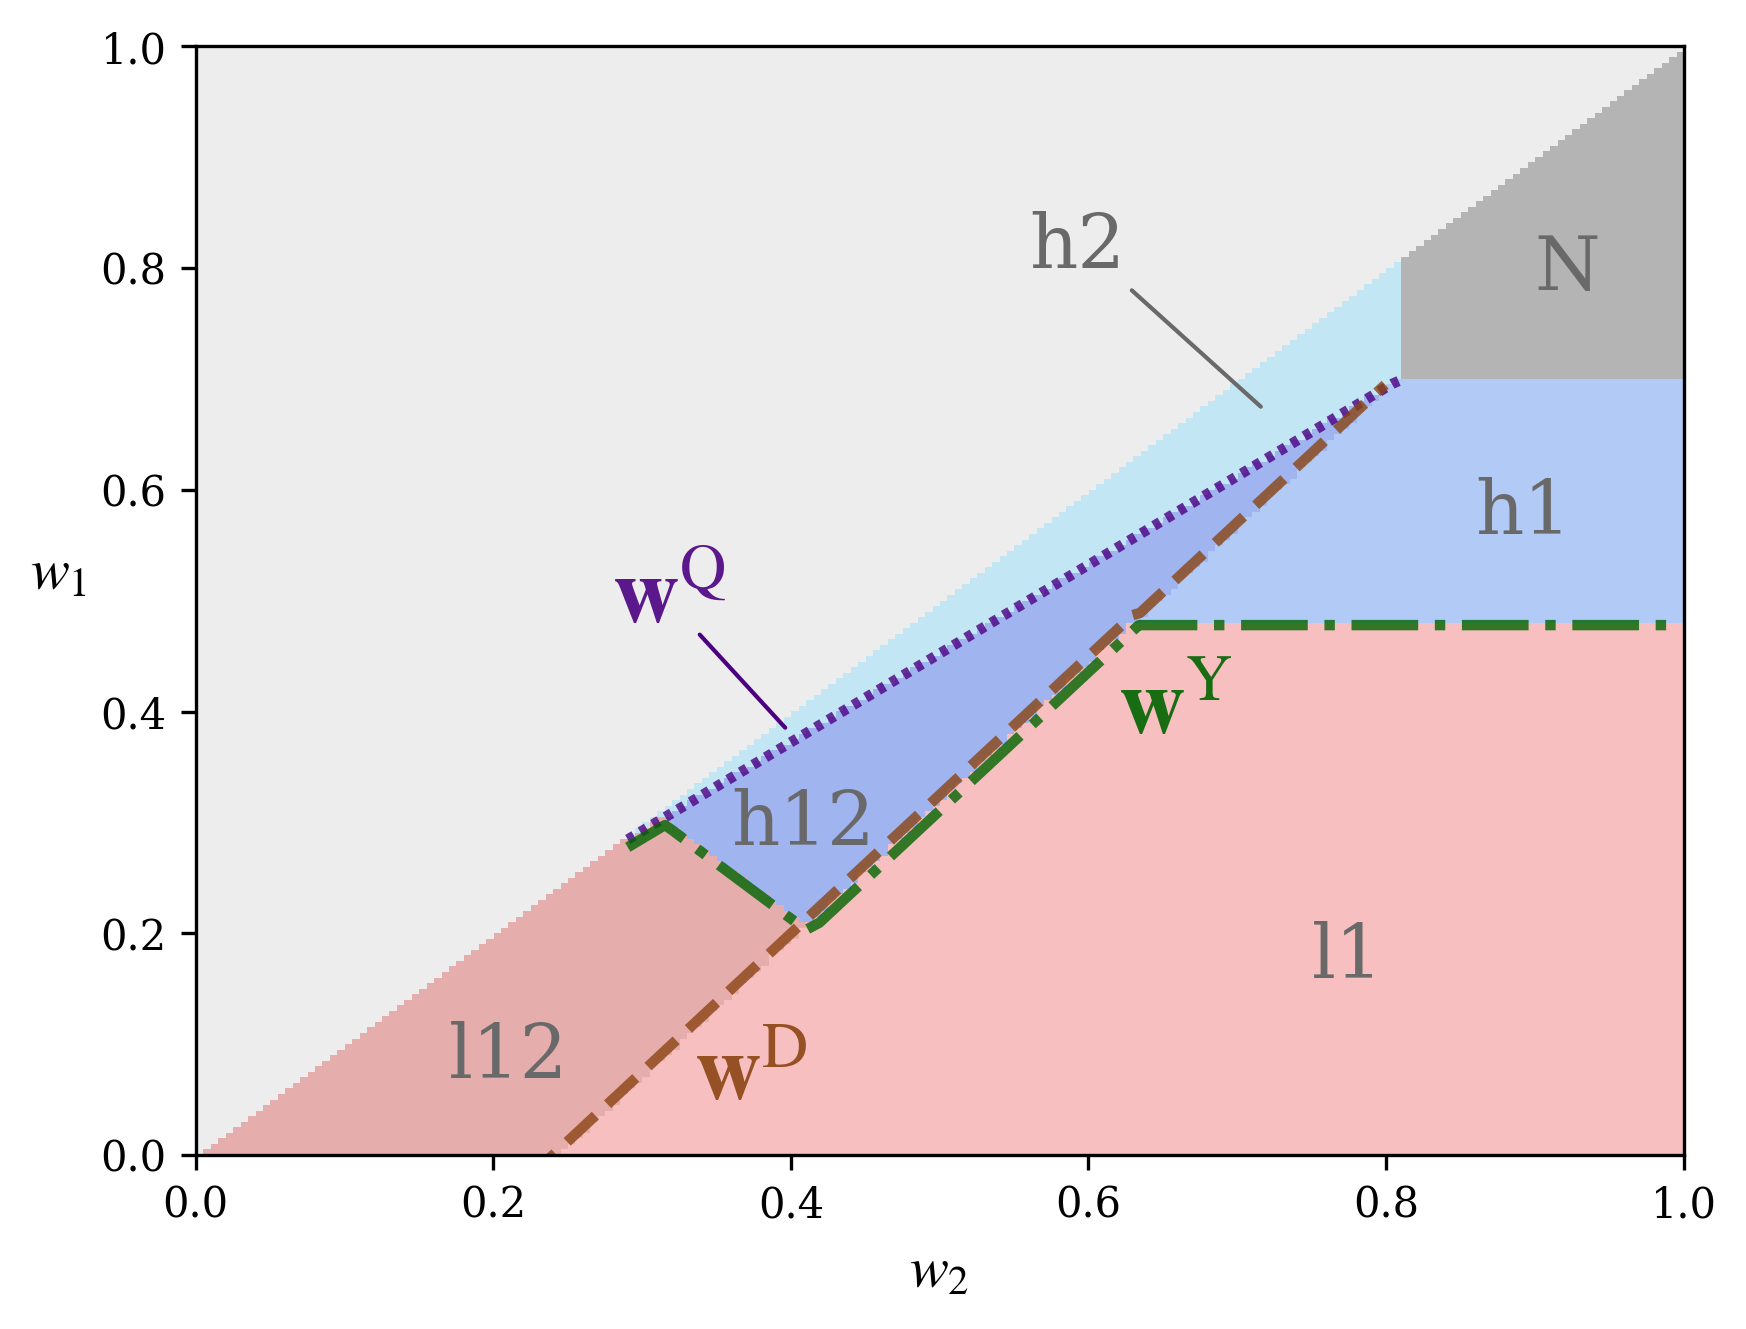
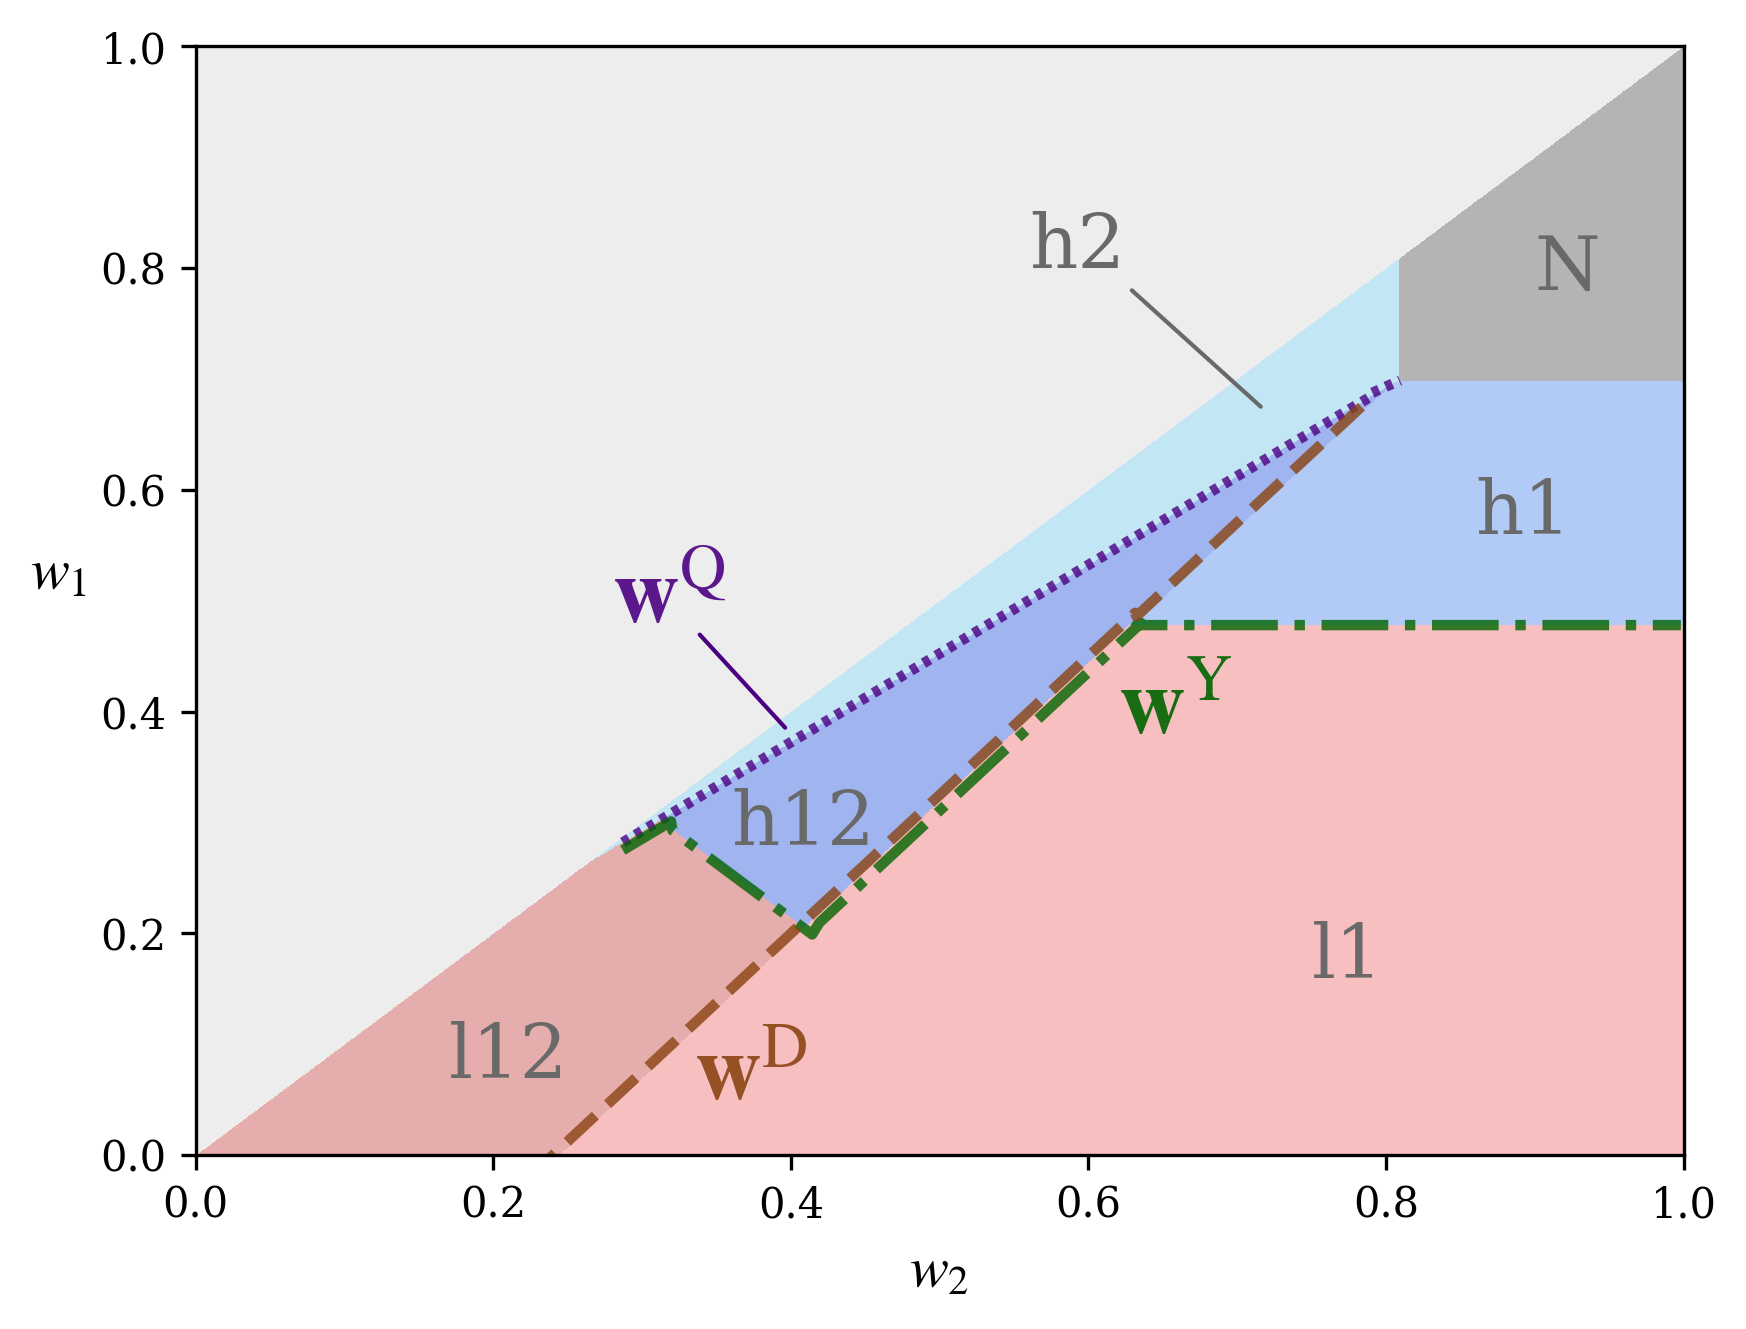
quant detection plots

diff --git a/scratch/quantdependentdetection.py b/scratch/quantdependentdetection.py
@@ -666,8 +666,19 @@ plt.show(block=True)
 ###############
 # DIFFERENT DETECTION MECHANISM
 ###############
+plt.rcParams["font.family"] = "serif"
+plt.rcParams['mathtext.fontset'] = 'stix'
+
 w12_delt_0 = 0.05
-lamb12_delt_0 = 0.05
+lamb12_delt_0 = 0.2
+
+b_0, cR_0 = 0.8, 0.051
+lambretlo_0, lambrethi_0 = 0.6, 0.95
+sens_0, fpr_0 = 0.75, 0.00
+lambsup, lambsup1, lambsup2 = 0.95, 0.95, 0.95
+lamb12_delt_0 = 0.2
+Ltheta_max = 8
+Ltheta_vec = np.arange(0, Ltheta_max, 0.02)
 
 def UtilsRet_Scen5_quantdetect(detect_const, lambsup1, lambsup2, Ltheta, b, c, w1, w2, lambretlo, lambrethi,
                                sens, fpr):
@@ -723,7 +734,7 @@ def UtilsRet_Scen5_quantdetect(detect_const, lambsup1, lambsup2, Ltheta, b, c, w
 
 lambsup1, lambsup2 = 0.9-lamb12_delt_0, 0.9
 Ltheta = 0.12
-pol_list, q_list = UtilsRet_Scen5_quantdetect(0, lambsup1, lambsup2, Ltheta, b_0, c_0, w_0-w12_delt_0, w_0,
+pol_list, q_list = UtilsRet_Scen5_quantdetect(0, lambsup1, lambsup2, Ltheta, b_0, cR_0, w_0-w12_delt_0, w_0,
                                                      lambretlo_0, lambrethi_0, sens_0, fpr_0)
 
 def RetQuantInvestPlots_WRT_w(numpts, detect_const, lambsup1, lambsup2, Ltheta, b, c, lambretlo, lambrethi, sens, fpr):
@@ -751,7 +762,7 @@ def RetQuantInvestPlots_WRT_w(numpts, detect_const, lambsup1, lambsup2, Ltheta, 
     return q1mat, q2mat, investmat
 
 numpts = 20  # MODIFY AS NEEDED
-q1mat, q2mat, investmat = RetQuantInvestPlots_WRT_w(numpts, 0, lambsup2-lamb12_delt_0, lambsup2, Ltheta_0, b_0, c_0,
+q1mat, q2mat, investmat = RetQuantInvestPlots_WRT_w(numpts, 0, lambsup2-lamb12_delt_0, lambsup2, Ltheta_0, b_0, cR_0,
                                                     lambretlo_0, lambrethi_0, sens_0, fpr_0)
 
 d1 = np.linspace(0.01, 0.99, numpts)
@@ -783,15 +794,15 @@ im3 = ax3.imshow(investmat.T, vmin=0, vmax=1,
                 origin="lower", cmap=cmapname, interpolation='none')
 
 ax1.set_title(r'$q_{1}$')
-ax1.set_xlabel(r'$w_2$', fontsize=12)
+ax1.set_xlabel(r'$w_2$', fontsize=14)
 ax1.set_ylabel(r'$w_1$', rotation=0, fontsize=12, labelpad=15)
 
 ax2.set_title(r'$q_{2}$')
-ax2.set_xlabel(r'$w_2$', fontsize=12)
+ax2.set_xlabel(r'$w_2$', fontsize=14)
 ax2.set_ylabel(r'$w_1$', rotation=0, fontsize=12, labelpad=15)
 
 ax3.set_title('Retailer quality investment')
-ax3.set_xlabel(r'$w_2$', fontsize=12)
+ax3.set_xlabel(r'$w_2$', fontsize=14)
 ax3.set_ylabel(r'$w_1$', rotation=0, fontsize=12, labelpad=15)
 
 # Add sliders for changing the parameters
@@ -801,7 +812,7 @@ slvertgap = 0.02
 b_slider_ax = fig.add_axes([0.1, slstrtval, 0.65, slht])
 b_slider = Slider(b_slider_ax, 'b', 0.01, 0.99, valinit=b_0)
 c_slider_ax = fig.add_axes([0.1, slstrtval-slvertgap, 0.65, slht])
-c_slider = Slider(c_slider_ax, 'c', 0.01, 0.99, valinit=c_0)
+c_slider = Slider(c_slider_ax, 'c', 0.01, 0.29, valinit=cR_0)
 lambretlo_slider_ax = fig.add_axes([0.1, slstrtval-slvertgap*2, 0.65, slht])
 lambretlo_slider = Slider(lambretlo_slider_ax, r'$\lambda^{lo}$', 0.01, 0.99, valinit=lambretlo_0)
 lambrethi_slider_ax = fig.add_axes([0.1, slstrtval-slvertgap*3, 0.65, slht])
@@ -842,6 +853,7 @@ lambsup2_slider.on_changed(sliders_on_changed)
 lambdelt_slider.on_changed(sliders_on_changed)
 Ltheta_slider.on_changed(sliders_on_changed)
 
+plt.savefig('approxQuantDetect.png', dpi=300, bbox_inches='tight')
 plt.show(block=True)
 
 ####################

diff --git a/plotsforpaper.py b/plotsforpaper.py
@@ -2100,7 +2100,7 @@ X = 0.08
 scDict = {'b': b, 'cRet': cRet, 'rateRetLo': rateRetLo, 'rateRetHi': rateRetHi, 'inspSensRet': inspSensRet,
           'rateSup_1': rateSup_1, 'rateSup_2': rateSup_2, 'priceSup_1': priceSup_1, 'priceSup_2': priceSup_2}
 # Shows the retailer's preferred strategy for various wholesale prices and quality rates of symmetric suppliers
-numpts = 200  # Resolution of price pixels
+numpts = 1200  # Resolution of price pixels
 
 plotMat = np.empty((numpts, numpts, 7))  # h12, l12, h1, l1, h2, N, empty; l2 ignored as doesn't arise
 plotMat[:] = 0
@@ -2142,7 +2142,7 @@ for i in range(numpts):
             plotMat[i, j, 4] = 1.0
 
 # List approximate intersection points here WRT w2
-wInt1, wInt2, wInt3, wInt4, wInt5 = 0.32, 0.415, 0.632, 0.8, 0.81
+wInt1, wInt2, wInt3, wInt4, wInt5 = 0.32, 0.415, 0.632, 0.79, 0.81
 # wBDh1l12, wBDl1l12 = wStartBDh1l12(X, scDict), wStartBDl1l12A(X, scDict)
 
 # Get boundary lines
